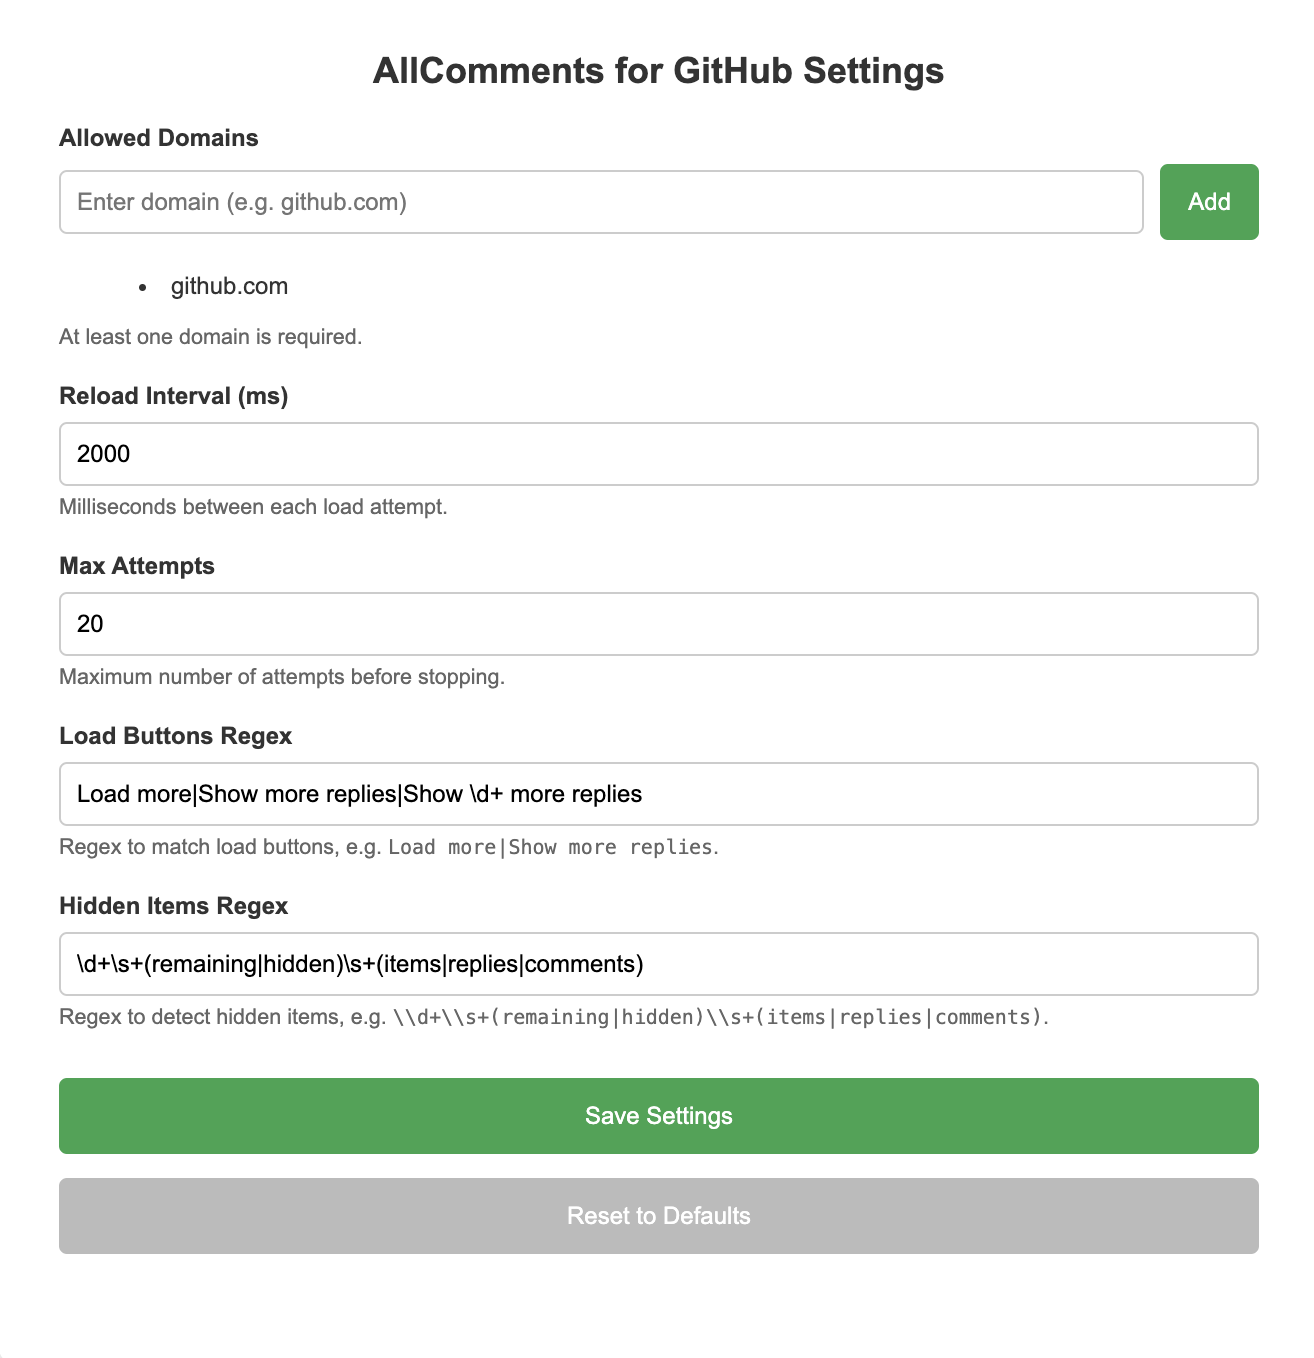
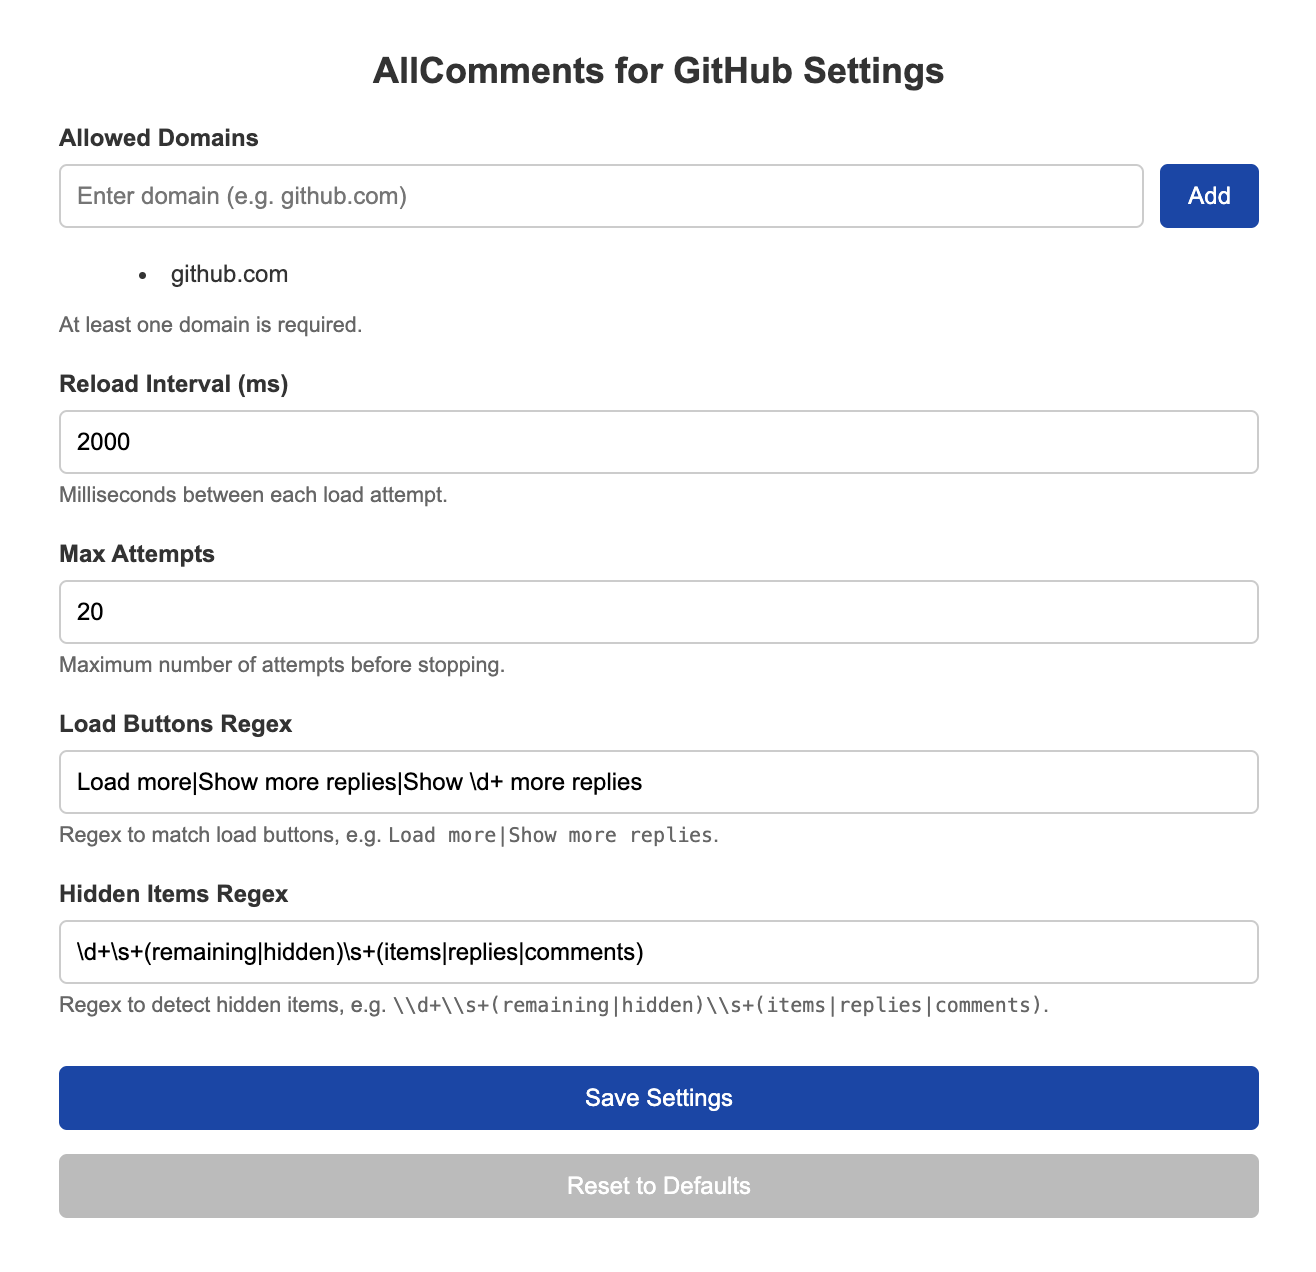
Fix style

Changed region(s): [[0.0312, 0.092, 0.9673, 0.9811], [0.2808, 0.0307, 0.7177, 0.092]]

diff --git a/src/options.html b/src/options.html
@@ -46,13 +46,13 @@
         display: inline-block;
         padding: 8px 14px;
         font-size: 1em;
-        background-color: #2ea44f;
+        background-color: #0047ab;
         color: #fff;
         border: none;
         border-radius: 4px;
         cursor: pointer;
         transition: background-color 0.2s ease;
-        height: 38px;
+        height: 32px;
       }
       .btn:hover {
         background-color: #279a43;
@@ -75,9 +75,8 @@
       #save {
         margin-top: 24px;
         width: 100%;
-        padding: 12px;
         font-size: 1em;
-        background-color: #2ea44f;
+        background-color: #0047ab;
         color: #fff;
         border: none;
         border-radius: 4px;
@@ -90,7 +89,7 @@
       .message {
         margin-top: 12px;
         font-size: 0.9em;
-        color: #2ea44f;
+        color: #0047ab;
         text-align: center;
         visibility: hidden;
       }
